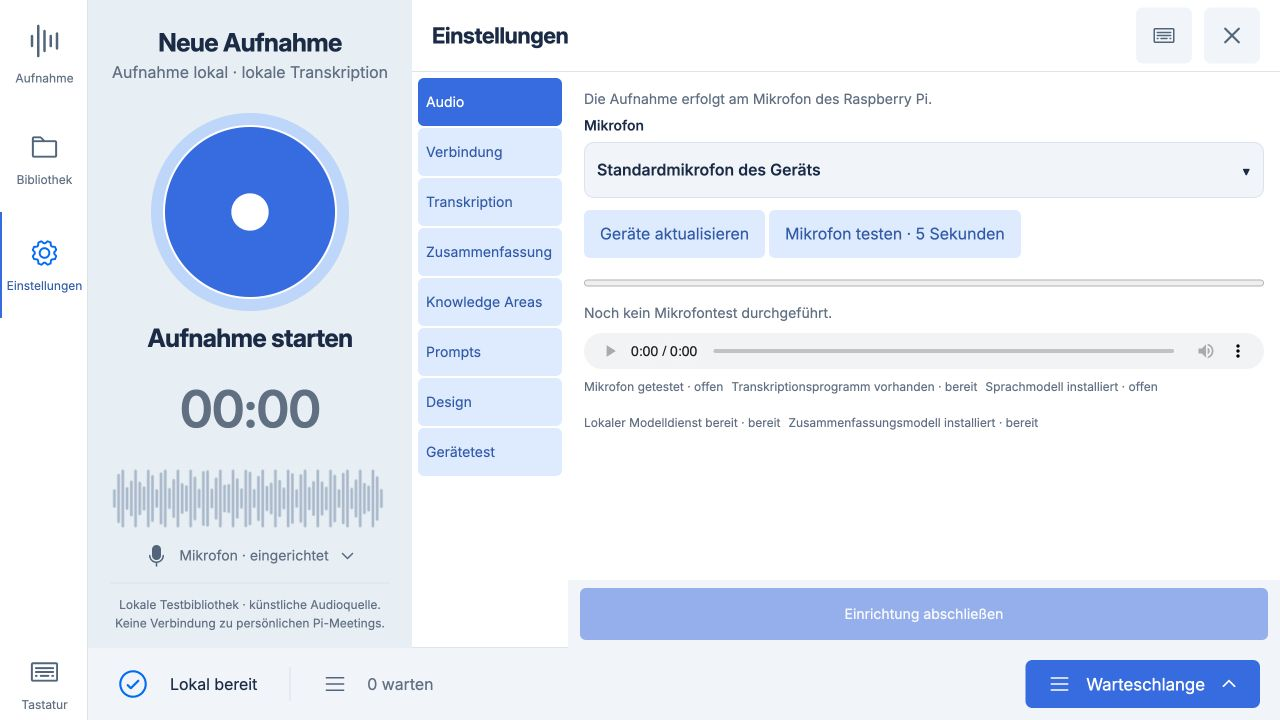
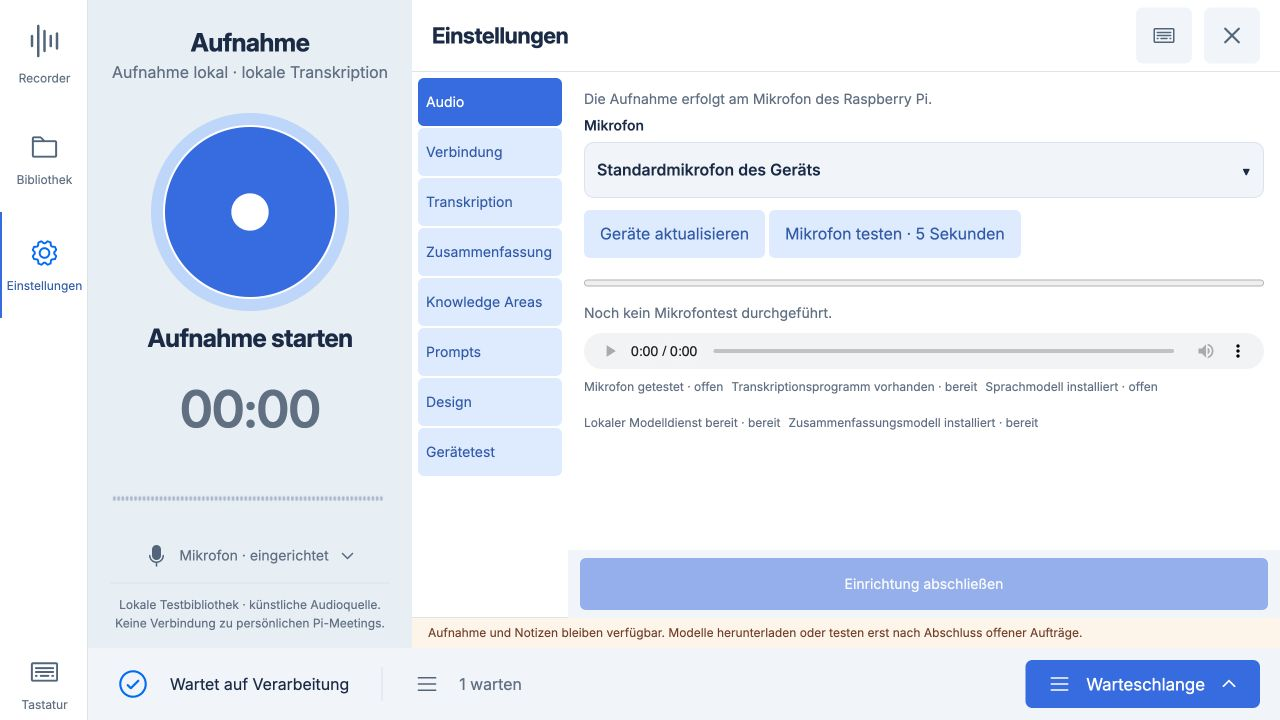
fix: clarify recorder navigation and separate tasks from open issues

diff --git a/studio/index.html b/studio/index.html
@@ -1,14 +1,14 @@
 <!doctype html>
-<html lang="de"><head><meta charset="utf-8"><meta name="viewport" content="width=device-width,initial-scale=1"><meta name="studio-ui-version" content="0.5.2"><title>Recorder Studio</title><link rel="stylesheet" href="/style.css"><link rel="stylesheet" href="/themes.css"><script src="/themes.js"></script><script defer src="/app.js"></script><script defer src="/keyboard.js"></script><link rel="stylesheet" href="/touch.css"><script defer src="/touch.js"></script><link rel="stylesheet" href="/cdb.css"><script defer src="/cdb.js"></script></head>
+<html lang="de"><head><meta charset="utf-8"><meta name="viewport" content="width=device-width,initial-scale=1"><meta name="studio-ui-version" content="0.5.3"><title>Recorder Studio</title><link rel="stylesheet" href="/style.css"><link rel="stylesheet" href="/themes.css"><script src="/themes.js"></script><script defer src="/app.js"></script><script defer src="/keyboard.js"></script><link rel="stylesheet" href="/touch.css"><script defer src="/touch.js"></script><link rel="stylesheet" href="/cdb.css"><script defer src="/cdb.js"></script></head>
 <body>
 <aside class="rail" aria-label="Navigation">
- <button class="rail-button active" id="home"><img src="/assets/waveform.svg" alt=""><span>Aufnahme</span></button>
+ <button class="rail-button active" id="home"><img src="/assets/waveform.svg" alt=""><span>Recorder</span></button>
  <button class="rail-button" id="library-open"><img src="/assets/folder.svg" alt=""><span>Bibliothek</span></button>
  <button class="rail-button" id="settings-open"><img src="/assets/gear.svg" alt=""><span>Einstellungen</span></button>
  <button class="rail-button keyboard" id="keyboard" title="Bildschirmtastatur"><img src="/assets/keyboard.svg" alt=""><span>Tastatur</span></button>
 </aside>
 <section class="capture" aria-label="Neue Aufnahme">
- <h1>Neue Aufnahme</h1><p class="local-note">Aufnahme lokal · Verarbeitung wählbar</p>
+ <h1>Aufnahme</h1><p class="local-note">Aufnahme lokal · Verarbeitung wählbar</p>
  <button id="record" class="record" aria-label="Aufnahme starten"><img id="record-icon" src="/assets/circle.svg" alt=""></button>
  <h2 id="record-label">Aufnahme starten</h2><div id="duration" class="duration">00:00</div>
  <canvas id="waveform" width="320" height="72" aria-label="Gemessener Audiopegel"></canvas>
@@ -25,10 +25,10 @@
 <section class="queue-region" id="queue-region" aria-labelledby="queue-heading"><div class="queue-heading"><h2 id="queue-heading">Warteschlange</h2><button id="queue-close" aria-label="Warteschlange schließen">Schließen ×</button></div><div class="queue-body"><section class="queue-panel" id="queue-panel" aria-label="Warteschlange" hidden></section></div></section>
 <footer class="status"><img id="activity-icon" src="/assets/circle-notch.svg" alt=""><span id="phase" role="status">Verbinden …</span><span class="status-separator"></span><img class="list-icon" src="/assets/list.svg" alt=""><span id="waiting">0 warten</span><span id="errors"></span><button id="queue-toggle" aria-controls="queue-region" aria-expanded="false"><img src="/assets/list.svg" alt="">Warteschlange<img id="queue-arrow" src="/assets/caret-up.svg" alt=""></button></footer>
 <div id="notice" class="notice" role="alert" hidden><span id="notice-text"></span><button id="notice-close" aria-label="Hinweis schließen"><img src="/assets/x.svg" alt=""></button></div>
-<dialog class="workspace-view" id="library" aria-labelledby="library-heading"><div class="dialog-heading"><h2 id="library-heading">Bibliothek</h2><button class="icon-button" data-close="library" aria-label="Bibliothek schließen"><img src="/assets/x.svg" alt=""></button></div><div class="dialog-search"><input id="search" type="search" placeholder="Titel, Notizen oder Transkript durchsuchen …" aria-label="Bibliothek durchsuchen"></div><div class="dialog-body"><div id="library-list"></div></div></dialog>
+<dialog class="workspace-view" role="region" id="library" aria-labelledby="library-heading"><div class="dialog-heading"><h2 id="library-heading">Bibliothek</h2><button class="icon-button" data-close="library" aria-label="Bibliothek schließen"><img src="/assets/x.svg" alt=""></button></div><div class="dialog-search"><input id="search" type="search" placeholder="Titel, Notizen oder Transkript durchsuchen …" aria-label="Bibliothek durchsuchen"></div><div class="dialog-body"><div id="library-list"></div></div></dialog>
 <dialog id="more" aria-labelledby="more-heading"><div class="dialog-heading"><h2 id="more-heading">Meetingdetails</h2><button class="icon-button" data-close="more" aria-label="Details schließen"><img src="/assets/x.svg" alt=""></button></div><div class="dialog-body"><label>Titel<input id="title-edit"></label><p id="metadata"></p><button id="download">Meeting exportieren</button><button id="cdb-send-open">Ins Brain übertragen …</button><p id="meeting-constraint" role="status"></p><button id="retranscribe">Neu transkribieren</button><button id="delete" class="danger">Meeting löschen …</button><p>Textänderungen werden vor einer Aktion gespeichert. Eine neue Verarbeitung verwendet die ausgewählten Modelle und den gewählten Prompt.</p></div><div class="dialog-actions"><button id="rename">Titel speichern</button></div></dialog>
 <dialog id="cdb-transfer" aria-labelledby="cdb-transfer-heading"><div class="dialog-heading"><h2 id="cdb-transfer-heading">Ins Brain übertragen</h2><button class="icon-button" data-close="cdb-transfer" aria-label="Übertragung schließen"><img src="/assets/x.svg" alt=""></button></div><div class="dialog-body"><h3 id="cdb-send-meeting"></h3><label>Knowledge Area für dieses Meeting<select id="cdb-send-area"></select></label><p id="cdb-send-target" role="status"></p><p>Die Originalaufnahme bleibt auf diesem Gerät. Ein anderes Ziel hier ändert deinen Standardbereich nicht.</p></div><div class="dialog-actions"><button data-close="cdb-transfer">Abbrechen</button><button id="cdb-send">Jetzt übertragen</button></div></dialog>
-<dialog class="workspace-view" id="settings" aria-labelledby="settings-heading"><div class="dialog-heading"><h2 id="settings-heading">Einstellungen</h2><button class="icon-button" data-close="settings" aria-label="Einstellungen schließen"><img src="/assets/x.svg" alt=""></button></div><nav class="settings-tabs" aria-label="Einstellungsbereich"><button class="active" aria-pressed="true" data-settings="audio-page">Audio</button><button class="" aria-pressed="false" data-settings="connection-page">Verbindung</button><button class="" aria-pressed="false" data-settings="asr-page">Transkription</button><button class="" aria-pressed="false" data-settings="llm-page">Zusammenfassung</button><button class="" aria-pressed="false" data-settings="brain-page">Knowledge Areas</button><button class="" aria-pressed="false" data-settings="prompts-page">Prompts</button><button class="" aria-pressed="false" data-settings="appearance-page">Design</button><button class="" aria-pressed="false" data-settings="models-page">Gerätetest</button></nav><p id="settings-constraint" role="status"></p><div class="dialog-body">
+<dialog class="workspace-view" role="region" id="settings" aria-labelledby="settings-heading"><div class="dialog-heading"><h2 id="settings-heading">Einstellungen</h2><button class="icon-button" data-close="settings" aria-label="Einstellungen schließen"><img src="/assets/x.svg" alt=""></button></div><nav class="settings-tabs" aria-label="Einstellungsbereich"><button class="active" aria-pressed="true" data-settings="audio-page">Audio</button><button class="" aria-pressed="false" data-settings="connection-page">Verbindung</button><button class="" aria-pressed="false" data-settings="asr-page">Transkription</button><button class="" aria-pressed="false" data-settings="llm-page">Zusammenfassung</button><button class="" aria-pressed="false" data-settings="brain-page">Knowledge Areas</button><button class="" aria-pressed="false" data-settings="prompts-page">Prompts</button><button class="" aria-pressed="false" data-settings="appearance-page">Design</button><button class="" aria-pressed="false" data-settings="models-page">Gerätetest</button></nav><p id="settings-constraint" role="status"></p><div class="dialog-body">
  <section id="appearance-page" class="settings-page" hidden><div class="settings-content"><div id="theme-library"><h3>Dein Recorder, deine Farben</h3><p>Wähle ein Design oder gestalte dein eigenes. Standardthemes bleiben immer erhalten.</p><div id="theme-options" class="theme-options" role="group" aria-label="Farbschema"></div><div class="theme-manage"><button id="theme-new">Neues Theme</button><button id="theme-copy">Duplizieren</button><button id="theme-edit">Bearbeiten</button><button id="theme-delete" class="danger">Löschen …</button></div><div id="theme-delete-confirm" hidden><p>Dieses eigene Theme löschen? Die Standardthemes bleiben erhalten.</p><button id="theme-delete-yes" class="danger">Theme löschen</button><button id="theme-delete-no">Behalten</button></div></div><div id="theme-editor" hidden><h3>Eigenes Theme gestalten</h3><label>Name<input id="theme-name" maxlength="40" autocomplete="off"></label><div id="theme-color-fields" class="theme-color-fields"></div><p id="theme-validation" role="status" aria-live="polite"></p><p>Die Vorschau erscheint sofort. Erst „Theme speichern“ übernimmt deine Änderungen.</p></div></div><div class="dialog-actions"><p id="theme-status" role="status" aria-live="polite"></p><div id="theme-editor-actions" hidden><button id="theme-cancel">Abbrechen</button><button id="theme-save">Theme speichern</button></div></div></section>
  <section id="audio-page" class="settings-page"><div class="settings-content"><p>Die Aufnahme erfolgt am Mikrofon des Raspberry Pi.</p><label>Mikrofon<select id="mic-select"></select></label><button id="refresh-devices">Geräte aktualisieren</button><button id="probe-start">Mikrofon testen · 5 Sekunden</button><progress id="probe-level" max="100" value="0"></progress><p id="probe-state"></p><audio id="probe-audio" controls preload="none"></audio><div id="checks"></div></div><div class="dialog-actions"><button id="finish-setup">Einrichtung abschließen</button></div></section>
 
@@ -37,6 +37,6 @@
  <section id="llm-page" class="settings-page" hidden><div class="settings-content"><h3>Meeting zusammenfassen</h3><label>Verarbeitung<select id="cdb-summary"><option value="local">Auf diesem Gerät · offline</option><option value="cdb">Über CDB · Text wird übertragen</option></select></label><label>Lokales Sprachmodell<select id="llm-select"></select></label><div id="llm-info" class="model-info"></div></div><div class="dialog-actions"><button id="llm-install">Sprachmodell installieren</button><button id="llm-activate">Sprachmodell aktivieren</button></div></section>
  <section id="brain-page" class="settings-page" hidden><div class="settings-content"><h3>Knowledge Areas</h3><p>Übertragen werden Zusammenfassung, Transkript und Notizen. Die Originalaufnahme bleibt lokal. Ein Versand erfolgt nur über „Ins Brain übertragen“ am Meeting.</p><button id="cdb-areas-refresh">Bereiche aktualisieren</button><label>Standardbereich<select id="cdb-area"></select></label><p id="cdb-area-status" role="status"></p><div id="cdb-transfers" aria-live="polite"></div></div><div class="dialog-actions"><nav id="cdb-transfer-pages" class="direct-pages" aria-label="Übertragungsseiten"></nav><span id="cdb-transfer-page"></span></div></section>
  <section id="models-page" class="settings-page" hidden><div class="settings-content"><h3>Lokale Modelle prüfen</h3><p>Auf Transkription und Zusammenfassung gewählte Modelle installieren, hier testen und danach ausdrücklich aktivieren.</p><progress id="download-progress" max="100" value="0"></progress><p id="download-state"></p><p id="model-test-state"></p><label>Whisper-Programm<input id="binary"></label><button id="binary-save">Programmpfad speichern</button></div><div class="dialog-actions"><button id="model-test">Ausgewähltes Modellpaar testen</button></div></section>
- <section id="prompts-page" class="settings-page" hidden><div class="settings-content"><label>Vorhandener Prompt<select id="prompt-select"></select></label><label>Name<input id="prompt-name"></label><label>Arbeitsauftrag<textarea id="prompt-text" rows="6"></textarea></label><p>Bestehende Prompts bleiben erhalten. Standardprompts sind schreibgeschützt.</p><button id="prompt-delete" class="danger">Eigenen Prompt löschen …</button></div><div class="dialog-actions"><button id="prompt-new">Neuen Prompt anlegen</button><button id="prompt-save">Prompt speichern</button></div></section>
+ <section id="prompts-page" class="settings-page" hidden><div class="settings-content"><label>Vorhandener Prompt<select id="prompt-select"></select></label><label>Name<input id="prompt-name"></label><label>Arbeitsauftrag<textarea id="prompt-text" rows="6"></textarea></label><p>Eigene Prompts bleiben erhalten. Standardvorlagen sind schreibgeschützt.</p><button id="prompt-delete" class="danger">Eigenen Prompt löschen …</button></div><div class="dialog-actions"><button id="prompt-new">Neuen Prompt anlegen</button><button id="prompt-save">Prompt speichern</button></div></section>
 </div></dialog><dialog id="feedback" aria-labelledby="feedback-heading"><div class="dialog-heading"><h2 id="feedback-heading">Wiedergabe während Aufnahme</h2><button data-close="feedback" autofocus>Abbrechen</button></div><div class="dialog-body"><p>Die Wiedergabe über Lautsprecher kann mit aufgenommen werden. Verwende Kopfhörer, wenn du jetzt weiter abspielen möchtest.</p></div><div class="dialog-actions"><button id="feedback-play">Mit Kopfhörern abspielen</button></div></dialog><dialog id="local-export" aria-labelledby="local-export-heading"><div class="dialog-heading"><h2 id="local-export-heading">Lokalen Stand sichern</h2><button data-close="local-export">Schließen</button></div><div class="dialog-body"><p>Enthält die aktuell sichtbaren Änderungen aller Textfelder, auch wenn das Speichern fehlgeschlagen ist. Text markieren und kopieren oder als Datei sichern.</p><label>Exporttext<textarea id="export-text" readonly rows="9"></textarea></label></div><div class="dialog-actions"><button id="export-file">Markdown-Datei herunterladen</button></div></dialog><dialog id="conflict" aria-labelledby="conflict-heading"><div class="dialog-heading"><h2 id="conflict-heading">Entwurf vergleichen</h2><button data-close="conflict">Schließen</button></div><div class="dialog-body"><label>Dein lokaler Entwurf<textarea id="conflict-local" readonly rows="5"></textarea></label><label>Aktuell gespeicherter Text<textarea id="conflict-server" readonly rows="5"></textarea></label><p>Die Auswahl betrifft nur das aktuell geöffnete Textfeld. Lokales Sichern erhält alle Felder.</p></div><div class="dialog-actions"><button id="conflict-keep">Lokalen Text bewusst speichern</button><button id="conflict-use-server">Gespeicherten Text übernehmen</button></div></dialog><audio id="audio" preload="metadata"></audio>
 </body></html>

diff --git a/studio/app.js b/studio/app.js
@@ -56,6 +56,7 @@ function renderSelected(){
  document.querySelectorAll('[data-field]').forEach(b=>{const active=b.dataset.field===field;b.classList.toggle('active',active);b.setAttribute('aria-selected',String(active))});
  const hasAudio=state?.sessions.find(r=>r.id===selected)?.has_audio;
  if(hasAudio&&audio.dataset.session!==String(selected)){audio.src='/api/sessions/'+selected+'/audio';audio.dataset.session=String(selected);$('seek').value=0;$('play-time').textContent='00:00'}
+ if(!hasAudio){audio.pause();audio.removeAttribute('src');delete audio.dataset.session;$('seek').value=0;$('play-time').textContent='00:00';$('play-total').textContent='00:00'}
  $('play').disabled=!hasAudio||!online;
 }
 async function selectMeeting(id){
@@ -93,7 +94,7 @@ function renderQueue(){
 }
 async function poll(){
  if(pollRunning)return;pollRunning=true;
- try{const s=await api('/api/state');state=s;online=true;lastStateAt=Date.now();csrf=s.csrf;namespace=s.namespace;renderState();const newRecordingId=pendingRecordingId||s.recording.id;const recordingRow=newRecordingId&&s.sessions.find(r=>r.local_job_id===newRecordingId);if(recordingRow&&observedRecordingId!==newRecordingId){observedRecordingId=newRecordingId;pendingRecordingId=null;field='notes';await selectMeeting(recordingRow.id)}else if(selected===null&&s.sessions.length){await selectMeeting(s.sessions[0].id)}else if(selected!==null){const id=selected,row=await api('/api/sessions/'+id);if(id===selected){const model=models.get(id);mergeRow(model,row);renderSelected()}}}
+ try{const s=await api('/api/state');state=s;online=true;lastStateAt=Date.now();csrf=s.csrf;namespace=s.namespace;renderState();const newRecordingId=pendingRecordingId||s.recording.id;const recordingRow=newRecordingId&&s.sessions.find(r=>r.local_job_id===newRecordingId);if(recordingRow&&observedRecordingId!==newRecordingId){observedRecordingId=newRecordingId;pendingRecordingId=null;field='notes';workspaceView();await selectMeeting(recordingRow.id)}else if(selected===null&&s.sessions.length){await selectMeeting(s.sessions[0].id)}else if(selected!==null){const id=selected,row=await api('/api/sessions/'+id);if(id===selected){const model=models.get(id);mergeRow(model,row);renderSelected()}}}
  catch(error){online=false;queueSignature='';if(state){renderState();renderSelected()}$('phase').textContent='Verbindung unterbrochen · Entwürfe bleiben lokal';$('record').disabled=true;for(const id of ['delete','retranscribe','process','finish-setup','probe-start','asr-install','llm-install','model-test','binary-save'])$(id).disabled=true;for(const b of document.querySelectorAll('.dialog-stop'))b.disabled=true;if(!state)notice(error.message)}finally{pollRunning=false}
 }
 $('record').onclick=run(async()=>{if(recordingAction||performance.now()<nextRecordAction)return;recordingAction=true;recordingIntent=state?.recording.id?'stop':'start';if(state)renderState();nextRecordAction=performance.now()+700;$('record').disabled=true;try{if(!state)throw new Error('Noch keine Verbindung.');if(!state.recording.id&&!state.config.setup_complete){await openSettings();throw new Error('Bitte zuerst Mikrofon testen und Einrichtung abschließen.')}if(!state.recording.id)audio.pause();const starting=!state.recording.id;const result=await api('/api/record/'+(starting?'start':'stop'),{});if(starting)pendingRecordingId=result.id;await poll()}finally{recordingAction=false;recordingIntent=null;if(state)renderState()}});
@@ -116,7 +117,11 @@ function workspaceView(id=null){
 for(const id of ['library','settings'])$(id).addEventListener('close',()=>{if(!['library','settings'].some(name=>$(name).open))workspaceView()});
 async function openLibrary(){await leaveDraft();workspaceView('library');await searchLibrary()}
 let searchNumber=0;async function searchLibrary(){const number=++searchNumber;const rows=await api('/api/search?q='+encodeURIComponent($('search').value));if(number!==searchNumber)return;$('library-list').replaceChildren();for(const row of rows){const wrap=document.createElement('div');wrap.className='library-item';const b=document.createElement('button');const title=document.createElement('span');title.textContent=row.title;const date=document.createElement('small');date.textContent=row.recorded_at.slice(0,10);b.append(title,date);b.onclick=run(async()=>{await selectMeeting(row.id);$('library').close()});wrap.append(b);$('library-list').append(wrap)}if(!rows.length)$('library-list').textContent='Keine passenden Meetings.'}
-$('search').oninput=run(searchLibrary);$('library-open').onclick=run(openLibrary);$('home').onclick=()=>{for(const d of document.querySelectorAll('dialog[open]'))d.close();workspaceView()};
+$('search').oninput=run(searchLibrary);$('library-open').onclick=run(openLibrary);$('home').onclick=run(async()=>{
+ for(const d of document.querySelectorAll('dialog[open]'))d.close();workspaceView();
+ const current=state?.recording.id&&state.sessions.find(row=>row.local_job_id===state.recording.id);
+ if(current){field='notes';await selectMeeting(current.id);renderSelected()}
+});
 document.querySelectorAll('[data-close]').forEach(b=>b.onclick=()=>$(b.dataset.close).close());
 $('more-open').onclick=run(async()=>{if(!selected)return;await leaveDraft();const m=models.get(selected);$('title-edit').value=m.values.title;$('metadata').textContent=m.row.recorded_at+' · '+duration(m.row.duration_sec)+' · '+m.row.samplerate+' Hz · '+m.row.channels+' Kanal/Kanäle';$('more').showModal()});
 $('rename').onclick=run(async()=>{changed('title',$('title-edit').value);await flush();renderSelected();await poll();$('more').close()});

diff --git a/settings.py b/settings.py
@@ -7,14 +7,28 @@ import uuid
 
 
 
-TASK_RULES = ("Extrahiere nur ausdrücklich vereinbarte Aufgaben. Jede Aufgabe braucht eine konkrete Handlung "
-              "und ein erkennbares Ziel. Verantwortliche und Fristen nur übernehmen, wenn sie genannt sind; "
-              "sonst 'nicht genannt' schreiben. Relative Wochentage nicht eigenmächtig in Kalenderdaten umrechnen. "
-              "Vorschläge und offene Freigaben nicht als beschlossene Aufgaben ausgeben. "
-              "Keine Aufgaben aus fehlenden Angaben erfinden. Wenn keine Aufgaben belegt sind, ausdrücklich sagen. ")
-MEETING_PROMPT = ("Erstelle auf Deutsch ein sachliches Meetingprotokoll ohne Übersetzung, mit Kurzüberblick, "
-                  "Entscheidungen, Aufgaben und offenen Fragen. Erfinde keine Fakten. " + TASK_RULES)
-TASK_PROMPT = ("Erstelle auf Deutsch eine knappe Liste der vereinbarten Aufgaben und nächsten Schritte. " + TASK_RULES)
+TASK_RULES = (
+    "Aufgaben sind nur ausdrücklich genannte Beauftragungen oder Zusagen mit konkreter Handlung. "
+    "Leite niemals eine Aufgabe aus einem Zustand, einer Information oder einem Problem ab. "
+    "Ein Budgetbetrag ist nur eine Information, keine Aufgabe 'Budget festlegen'. "
+    "Eine nicht freigegebene Bestellung ist ein offener Status, keine Aufgabe 'Bestellung freigeben'. "
+    "Ein angekündigter Testtermin gehört zu Terminen, nicht automatisch zu Aufgaben. "
+    "Vorschläge sind keine vereinbarten Aufgaben. Verantwortliche und Fristen nur übernehmen, "
+    "wenn ausdrücklich genannt, sonst 'nicht genannt'. Wochentage nicht in Kalenderdaten umrechnen. "
+    "Keine Fakten erfinden. Keine zusätzliche abschließende Zusammenfassung. "
+)
+MEETING_PROMPT = (
+    "Schreibe ein knappes deutsches Meetingprotokoll ohne Übersetzung. Abschnitte: Kurzüberblick, "
+    "Entscheidungen, Aufgaben, Termine, Offene Punkte. " + TASK_RULES +
+    "Pro Aufgabe nur eine Zeile: Person: konkrete Handlung — Frist. "
+    "Ohne belegte Aufgaben schreibe 'Keine vereinbarten Aufgaben genannt'."
+)
+TASK_PROMPT = (
+    "Schreibe auf Deutsch nur diese drei Abschnitte: Aufgaben, Termine, Offene Punkte. " + TASK_RULES +
+    "Pro Aufgabe genau eine kurze Zeile: Person: konkrete Handlung — Frist. "
+    "Keine Unterpunkte für Handlung oder Ziel. Allgemeine Informationen wie das Budget weglassen. "
+    "Ohne belegte Aufgaben schreibe 'Keine vereinbarten Aufgaben genannt'."
+)
 
 class SettingsManager:
     """Zentrale Settings-Verwaltung mit QSettings"""

diff --git a/tests/test_studio.py b/tests/test_studio.py
@@ -75,7 +75,8 @@ class StudioTests(unittest.TestCase):
         self.assertEqual([p['id'] for p in prompts if p['is_default']],['zusammenfassen','aufgaben'])
         self.assertTrue(any(p['name']=='Eigener Ablauf' for p in prompts))
         self.assertIn('Verantwortliche und Fristen nur übernehmen',prompts[1]['prompt_text'])
-        self.assertIn('Vorschläge und offene Freigaben',prompts[1]['prompt_text'])
+        self.assertIn('Vorschläge sind keine vereinbarten Aufgaben',prompts[1]['prompt_text'])
+        self.assertIn("keine Aufgabe 'Bestellung freigeben'",prompts[1]['prompt_text'])
 
     def test_prompts_preserved_mutation_and_default_protection(self):
         initial=self.app.prompts()

diff --git a/web_server.py b/web_server.py
@@ -27,7 +27,7 @@ from meeting_recorder.core import atomic_write
 from meeting_recorder.server import Handler, Server, App as SharedWebApp
 from meeting_recorder.child_process import owned_command
 
-VERSION = '0.5.2'
+VERSION = '0.5.3'
 STATIC = Path(__file__).parent/'studio'
 FIELDS = ('title', 'notes', 'transcript_text', 'summary_text')
 BUSY = ('recording', 'importing', 'queued', 'transcribing', 'summarizing')

diff --git a/docs/workspace-0.5.2/README.md b/docs/workspace-0.5.2/README.md
@@ -1,6 +1,6 @@
 # Studio 0.5.2 – Arbeitsansichten und sinnvolle Aufgaben
 
-Bibliothek und Einstellungen teilen sich als nichtmodale Ansichten die rechte Arbeitsspalte mit dem Meetinginhalt. Die große Aufnahme-/Stopptaste, Navigation und Queue bleiben erreichbar. Schließen oder „Aufnahme“ führt zum Meeting zurück; Auswahl in der Bibliothek öffnet das gewählte Meeting. Auswahl- und Bestätigungsdialoge bleiben für einzelne Aktionen bestehen.
+Bibliothek und Einstellungen teilen sich als nichtmodale Ansichten die rechte Arbeitsspalte mit dem Meetinginhalt. Die große Aufnahme-/Stopptaste, Navigation und Queue bleiben erreichbar. Schließen oder „Recorder“ führt zum Meeting zurück; Auswahl in der Bibliothek öffnet das gewählte Meeting. Auswahl- und Bestätigungsdialoge bleiben für einzelne Aktionen bestehen.
 
 Letzte Aufnahmen besitzen Platz für drei Titelzeilen und Datum. Längere Titel enden mit Auslassung; der volle Titel steht im Meeting. Auch dessen Überschrift ist auf zwei Zeilen begrenzt, damit die Inhaltsfläche erhalten bleibt.
 
@@ -18,3 +18,9 @@ Browserprüfung der isolierten Vorschau mit synthetischen Daten bei 1280 × 720 
 - [Bibliothek](02-library.png)
 - [Dreizeiliger Aufnahmetitel](03-recent.png)
 - [Tastatur bei 1024 × 600](04-keyboard-1024.png)
+
+## Präzisierte Navigation in 0.5.3
+
+„Recorder“ ist eine Ansicht, kein Startbefehl. Nur die große Taste startet beziehungsweise stoppt. Bei laufender Aufnahme öffnet „Recorder“ deren Notizen, sonst bleibt das zuletzt gewählte Meeting samt Inhalt erhalten. Ein neuer Aufnahmestart wechselt aus Bibliothek/Einstellungen direkt zu den zugehörigen Notizen. Dieses Verhalten wurde mit der synthetischen Aufnahmequelle geprüft, einschließlich Wechsel zu einem älteren Meeting und Rückkehr zur laufenden Aufnahme. Ohne fertige Audiodatei zeigt der Player keine alte Dauer mehr.
+
+Ein echter lokaler Modelltest mit Qwen3 4B zeigte trotz der ersten Regeln unzulässig abgeleitete Aufgaben aus Budget und offener Freigabe. Die Vorlage wurde daraufhin konkreter formuliert: reine Informationen bleiben Informationen, angekündigte Termine sind getrennt, offene Freigaben keine Beauftragung. Aufgaben werden als kurze Zeilen ausgegeben. [Aufnahme und Navigation](05-recording-navigation.png).
